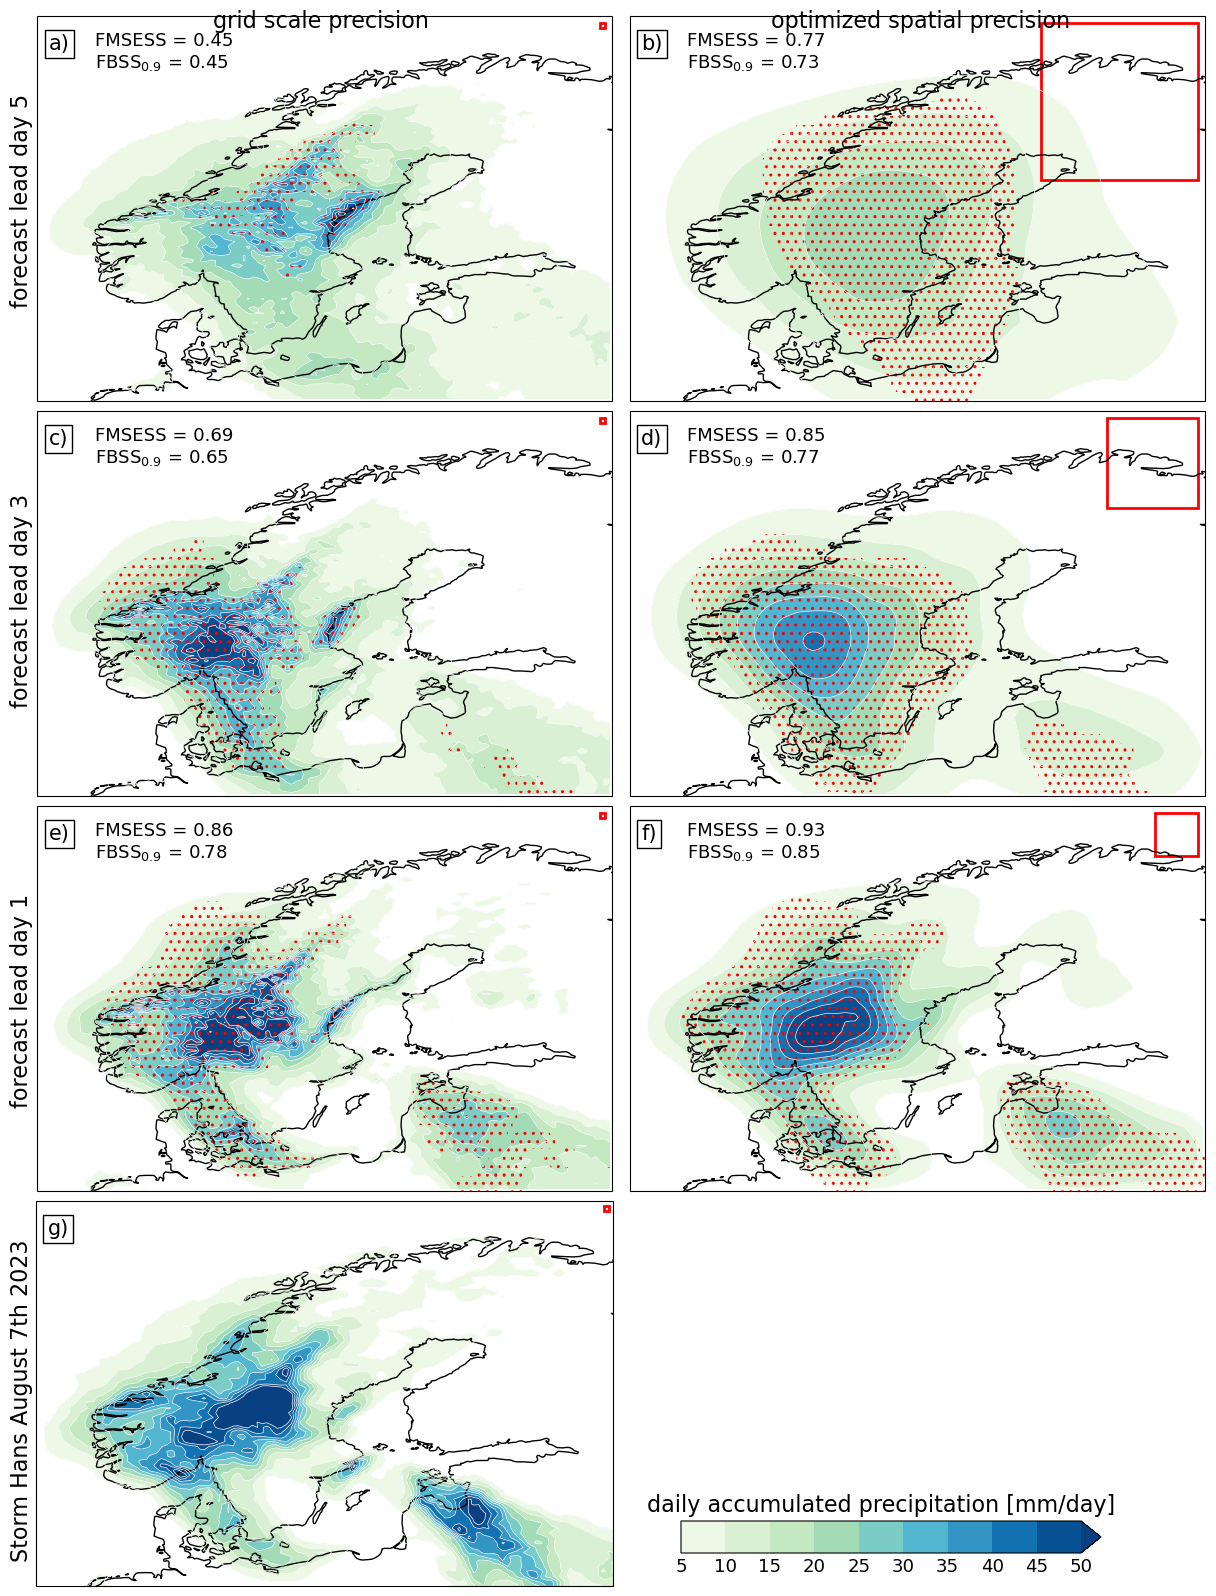
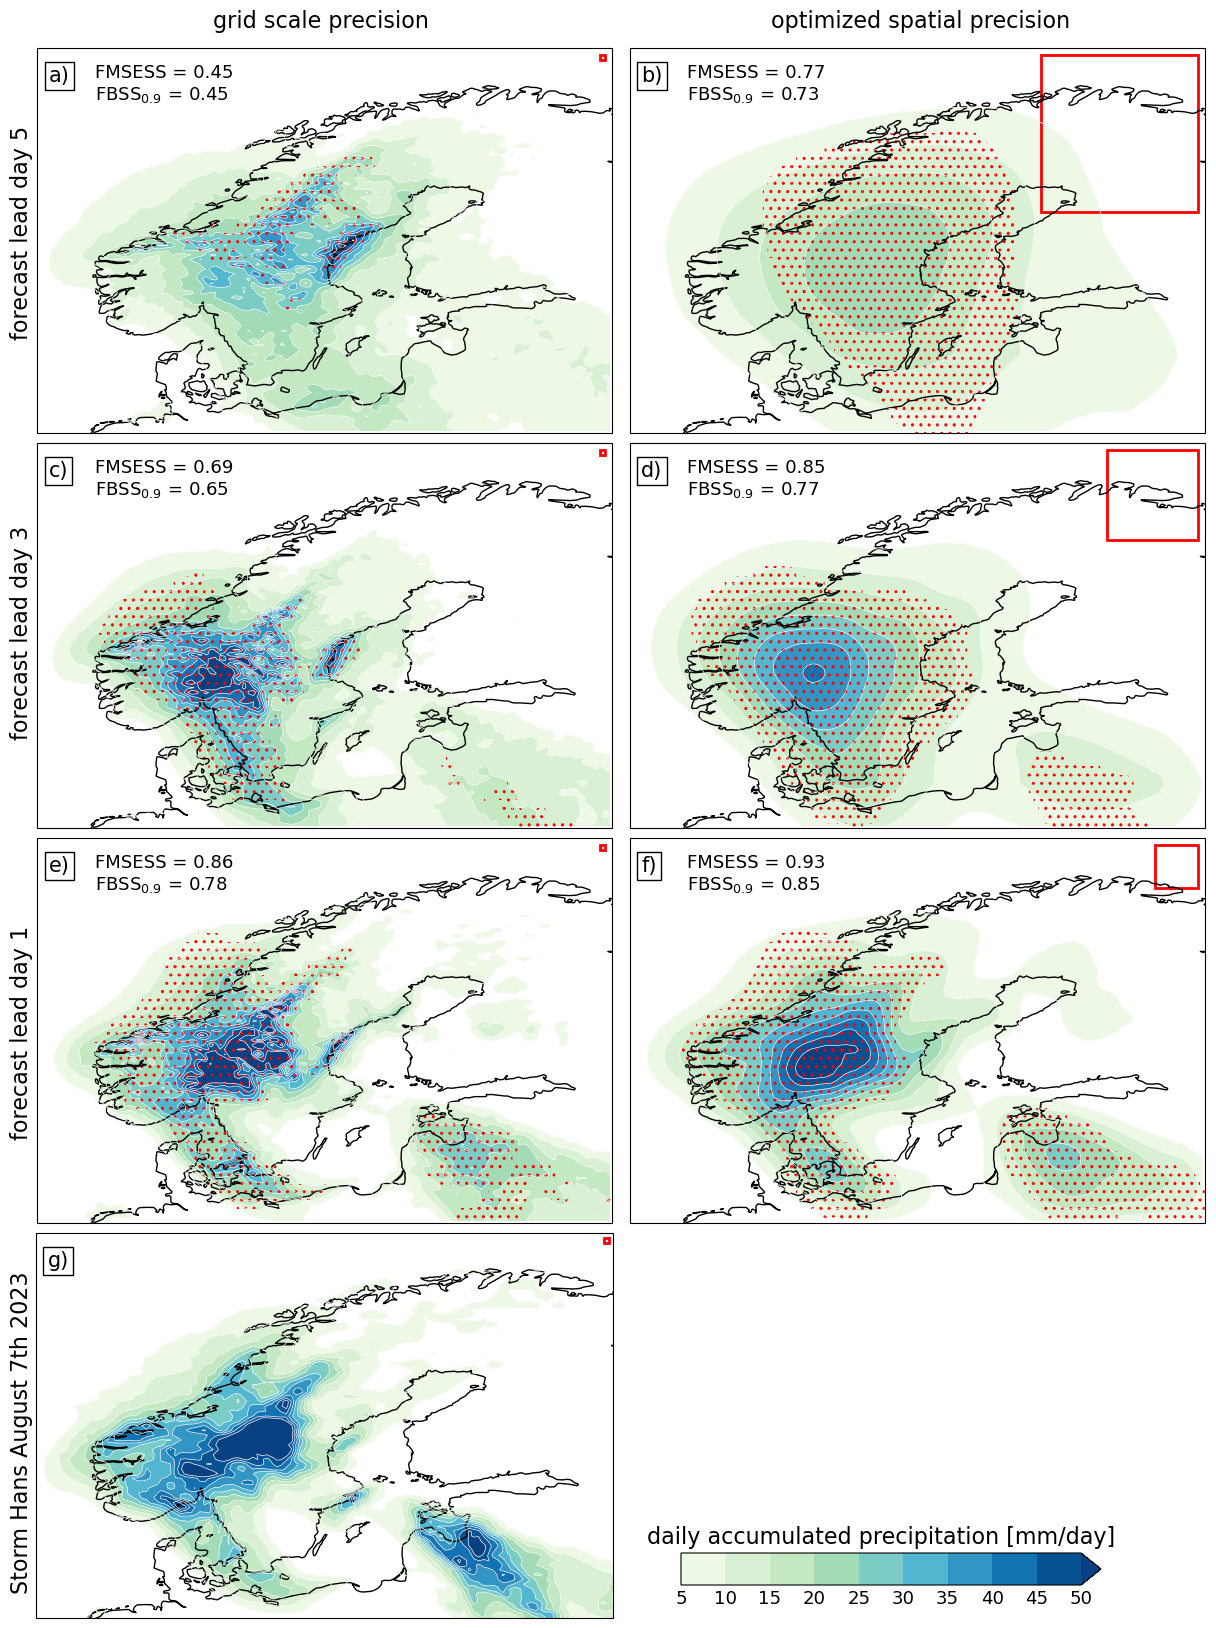
update

diff --git a/code/plot/test.py b/code/plot/test.py
@@ -142,7 +142,7 @@ top_labels = ['grid scale precision', 'optimized spatial precision']
 
 # Place text at the top of the figure centered above each column
 for x, label in zip(x_positions, top_labels):
-    fig.text(x, 0.98, label, fontsize=fontsize + 5, va='bottom', ha='center')  # Adjust y-position if needed
+    fig.text(x, 1.0, label, fontsize=fontsize + 5, va='bottom', ha='center')  # Adjust y-position if needed
     
 #fig.text(-0.01,0.81,'forecast lead day 5',rotation=90,fontsize=fontsize+5)
 #fig.text(-0.01,0.56,'forecast lead day 3',rotation=90,fontsize=fontsize+5)
